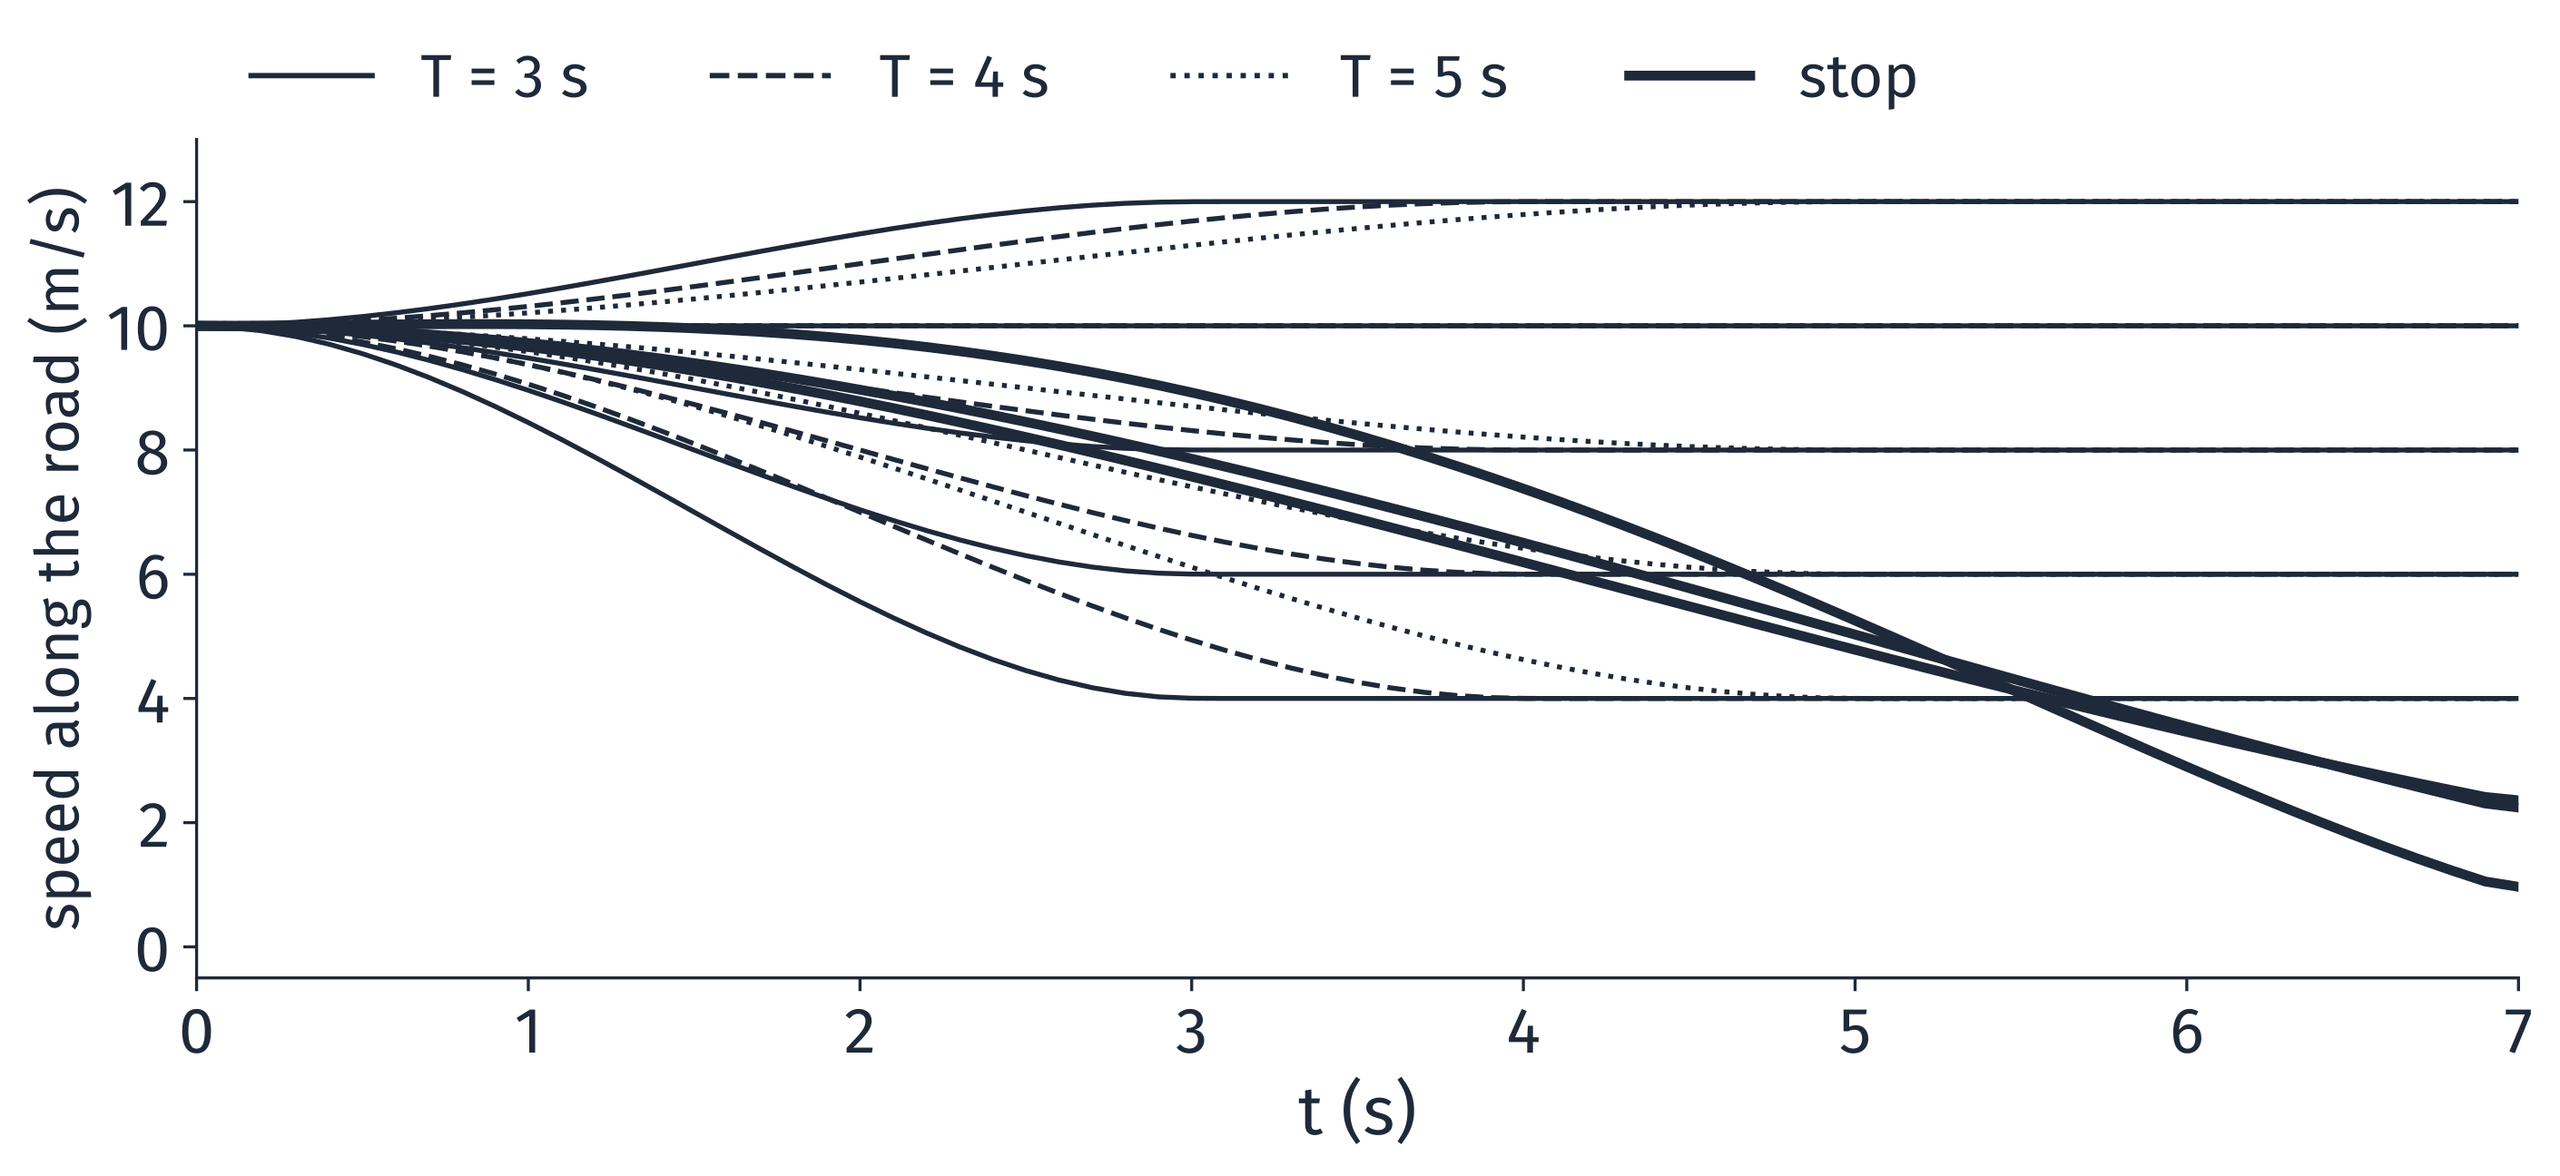
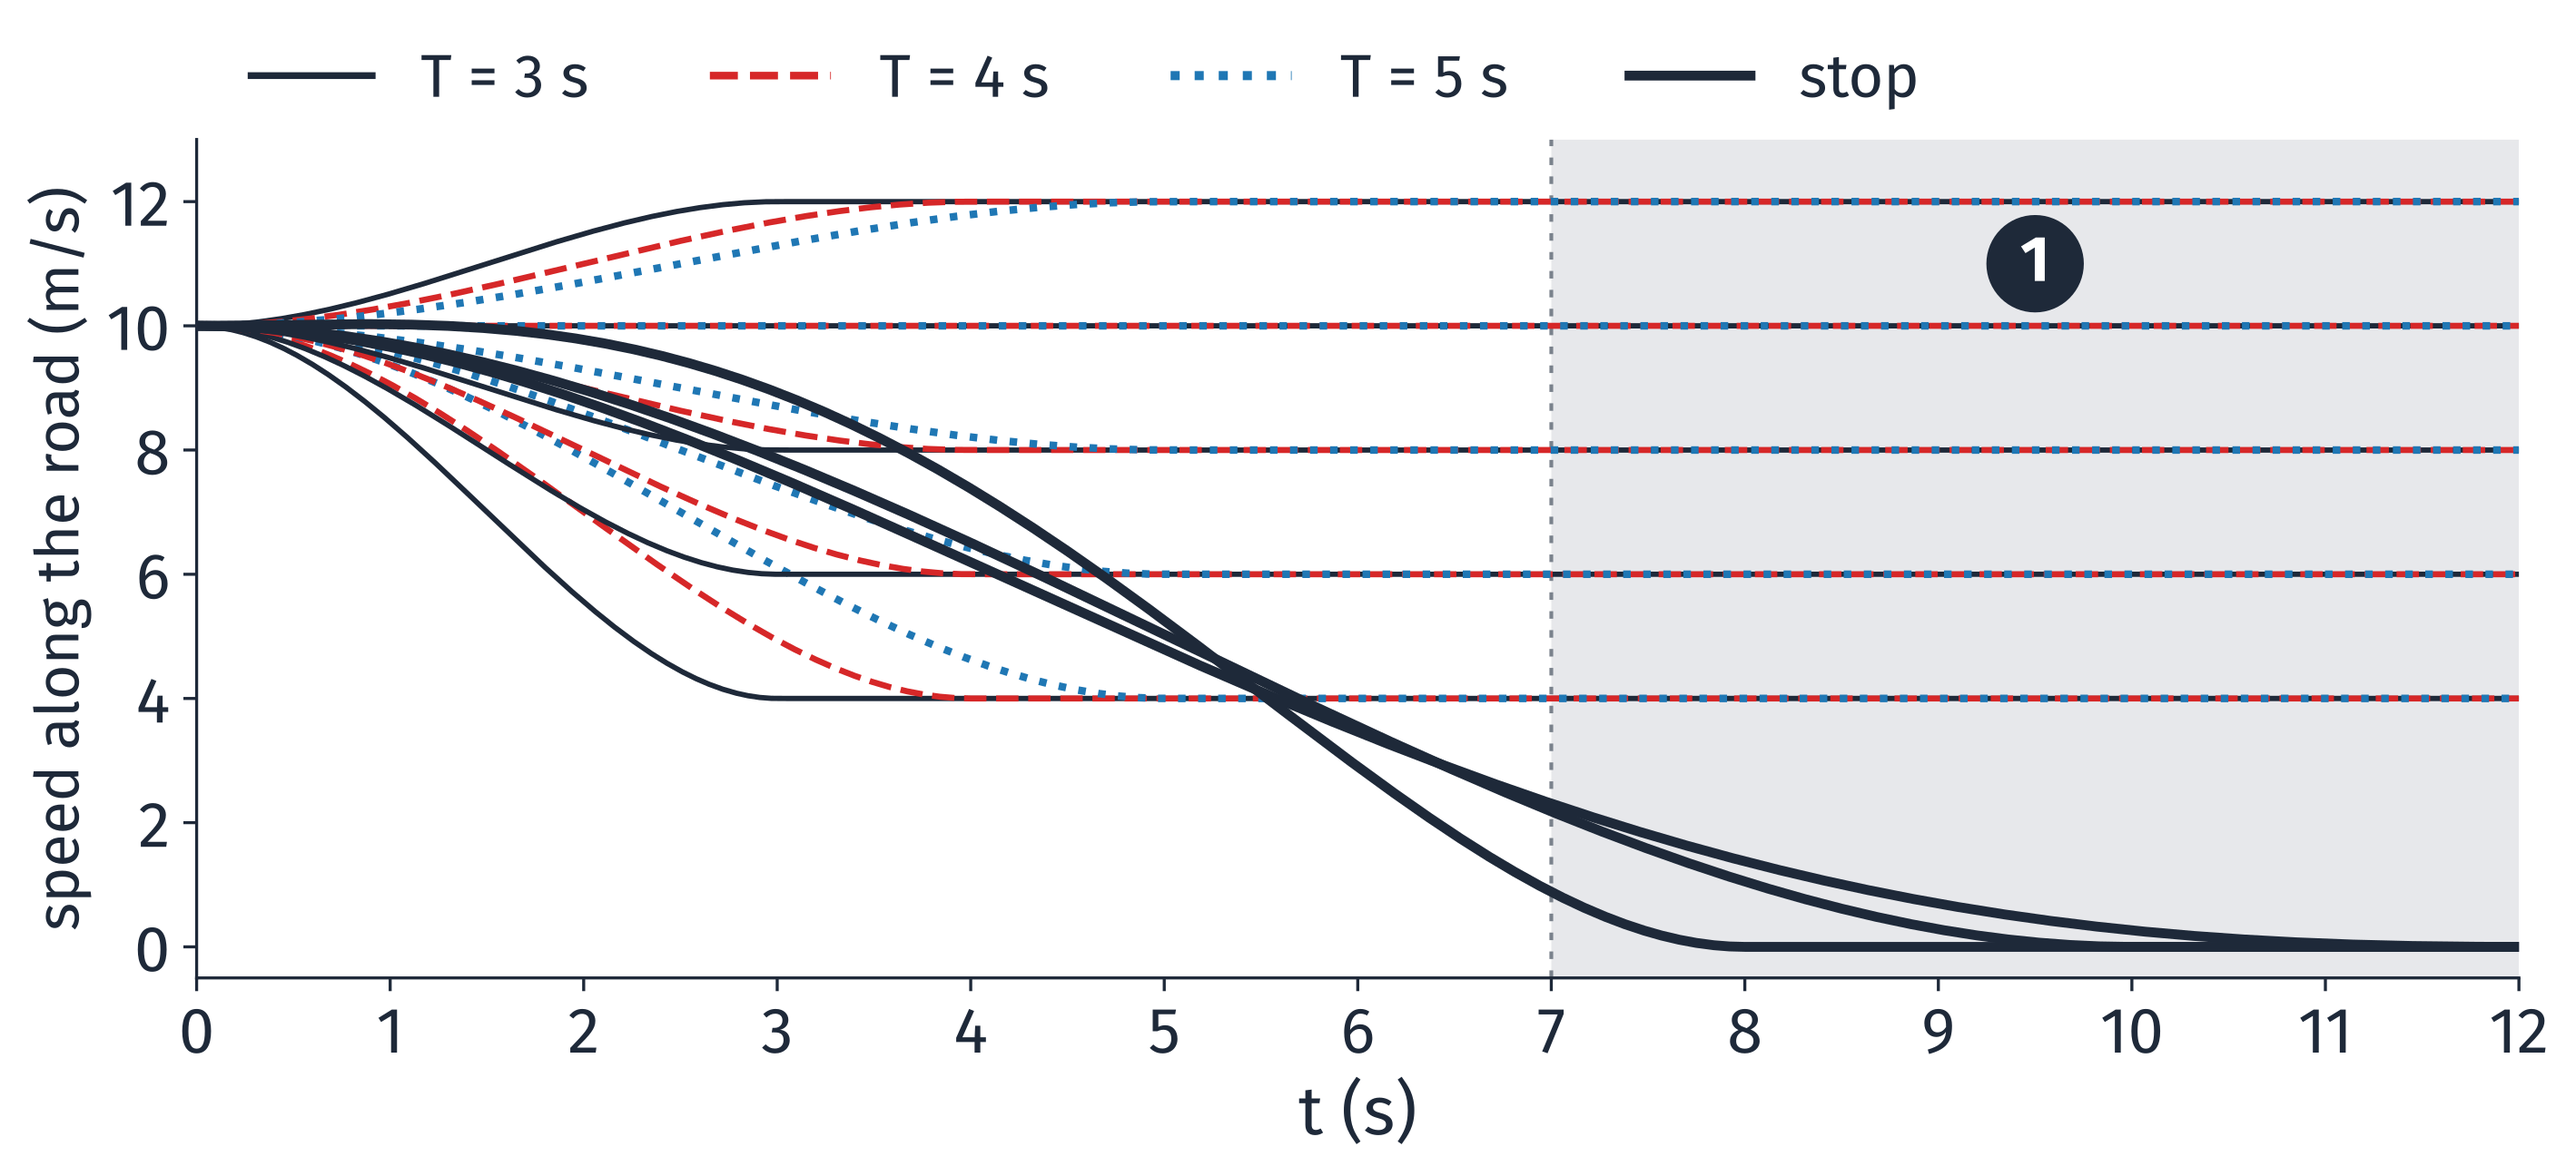
L10: the samples along drawn to 12 s; one color per duration

diff --git a/docs/source/lectures/lecture10/l10_lecture.rst b/docs/source/lectures/lecture10/l10_lecture.rst
@@ -1499,7 +1499,7 @@ Each candidate's :math:`d(t)` is one quintic, from the AV's :math:`d`,
 each side; :math:`T` = 3, 4 or 5 s: 6 × 3 = 18.
 
 .. figure:: /_static/images/L10/traj_lat_set.png
-   :alt: A graph of the sideways offset d, in meters, against time t from 0 to 7 seconds, over two horizontal bands: the right lane in yellow from minus 1.75 to 1.75, the left lane in purple from 1.75 to 5.25, a dashed line between them. Eighteen black S-shaped curves start at d = 0 at time 0 and level off at minus 0.5, 0, 0.5, 3, 3.5 or 4 meters; solid curves level off at 3 seconds, dashed at 4, dotted at 5.
+   :alt: A graph of the sideways offset d, in meters, against time t from 0 to 7 seconds, over two horizontal bands: the right lane in yellow from minus 1.75 to 1.75, the left lane in purple from 1.75 to 5.25, a dashed line between them. Eighteen S-shaped curves start at d = 0 at time 0 and level off at minus 0.5, 0, 0.5, 3, 3.5 or 4 meters; solid black curves level off at 3 seconds, dashed red at 4, dotted blue at 5.
    :width: 80%
    :align: center
 
@@ -1787,16 +1787,16 @@ Samples (chosen). Keep a speed: :math:`\dot s_1` = 4, 6, 8, 10 or 12 m/s,
 :math:`T` = 8, 10 or 12 s: 3.
 
 .. figure:: /_static/images/L10/traj_lon_set.png
-   :alt: A graph of the speed along the road, in meters per second, against time from 0 to 7 seconds. All curves start at 10. Thin curves change smoothly to 4, 6, 8, 10 or 12 and stay there; solid ones arrive at 3 seconds, dashed at 4, dotted at 5. Thick curves, the stops, fall slowly and are still between 1 and 2.5 meters per second at 7 seconds.
+   :alt: A graph of the speed along the road, in meters per second, against time from 0 to 12 seconds. All curves start at 10. Thin curves change smoothly to 4, 6, 8, 10 or 12 and stay there; solid black ones arrive at 3 seconds, dashed red at 4, dotted blue at 5. Three thick curves, the stops, fall slowly and reach 0 at 8, 10 and 12 seconds. A dotted vertical line at 7 seconds; to its right the background is gray, with dark tag 1.
    :width: 95%
    :align: center
 
    The 18 speed-along-the-road candidates: 15 that keep a speed, 3 that
    stop.
 
-The stops last 8 to 12 s, longer than the 7 s plan, so at 7 s they still
-move. 18 along and 18 across: 18 × 18 = 324 candidates, every pair, as
-Werling et al. combine them.
+Tag 1, after the 7 s plan: drawn only to show the stops (8 to 12 s)
+reach 0; the planner uses each curve up to 7 s. 18 along and 18 across:
+18 × 18 = 324 candidates, every pair, as Werling et al. combine them.
 
 .. dropdown:: More detail: one quartic worked, from 10 to 6 m/s in 4 s
    :class-container: more-detail
